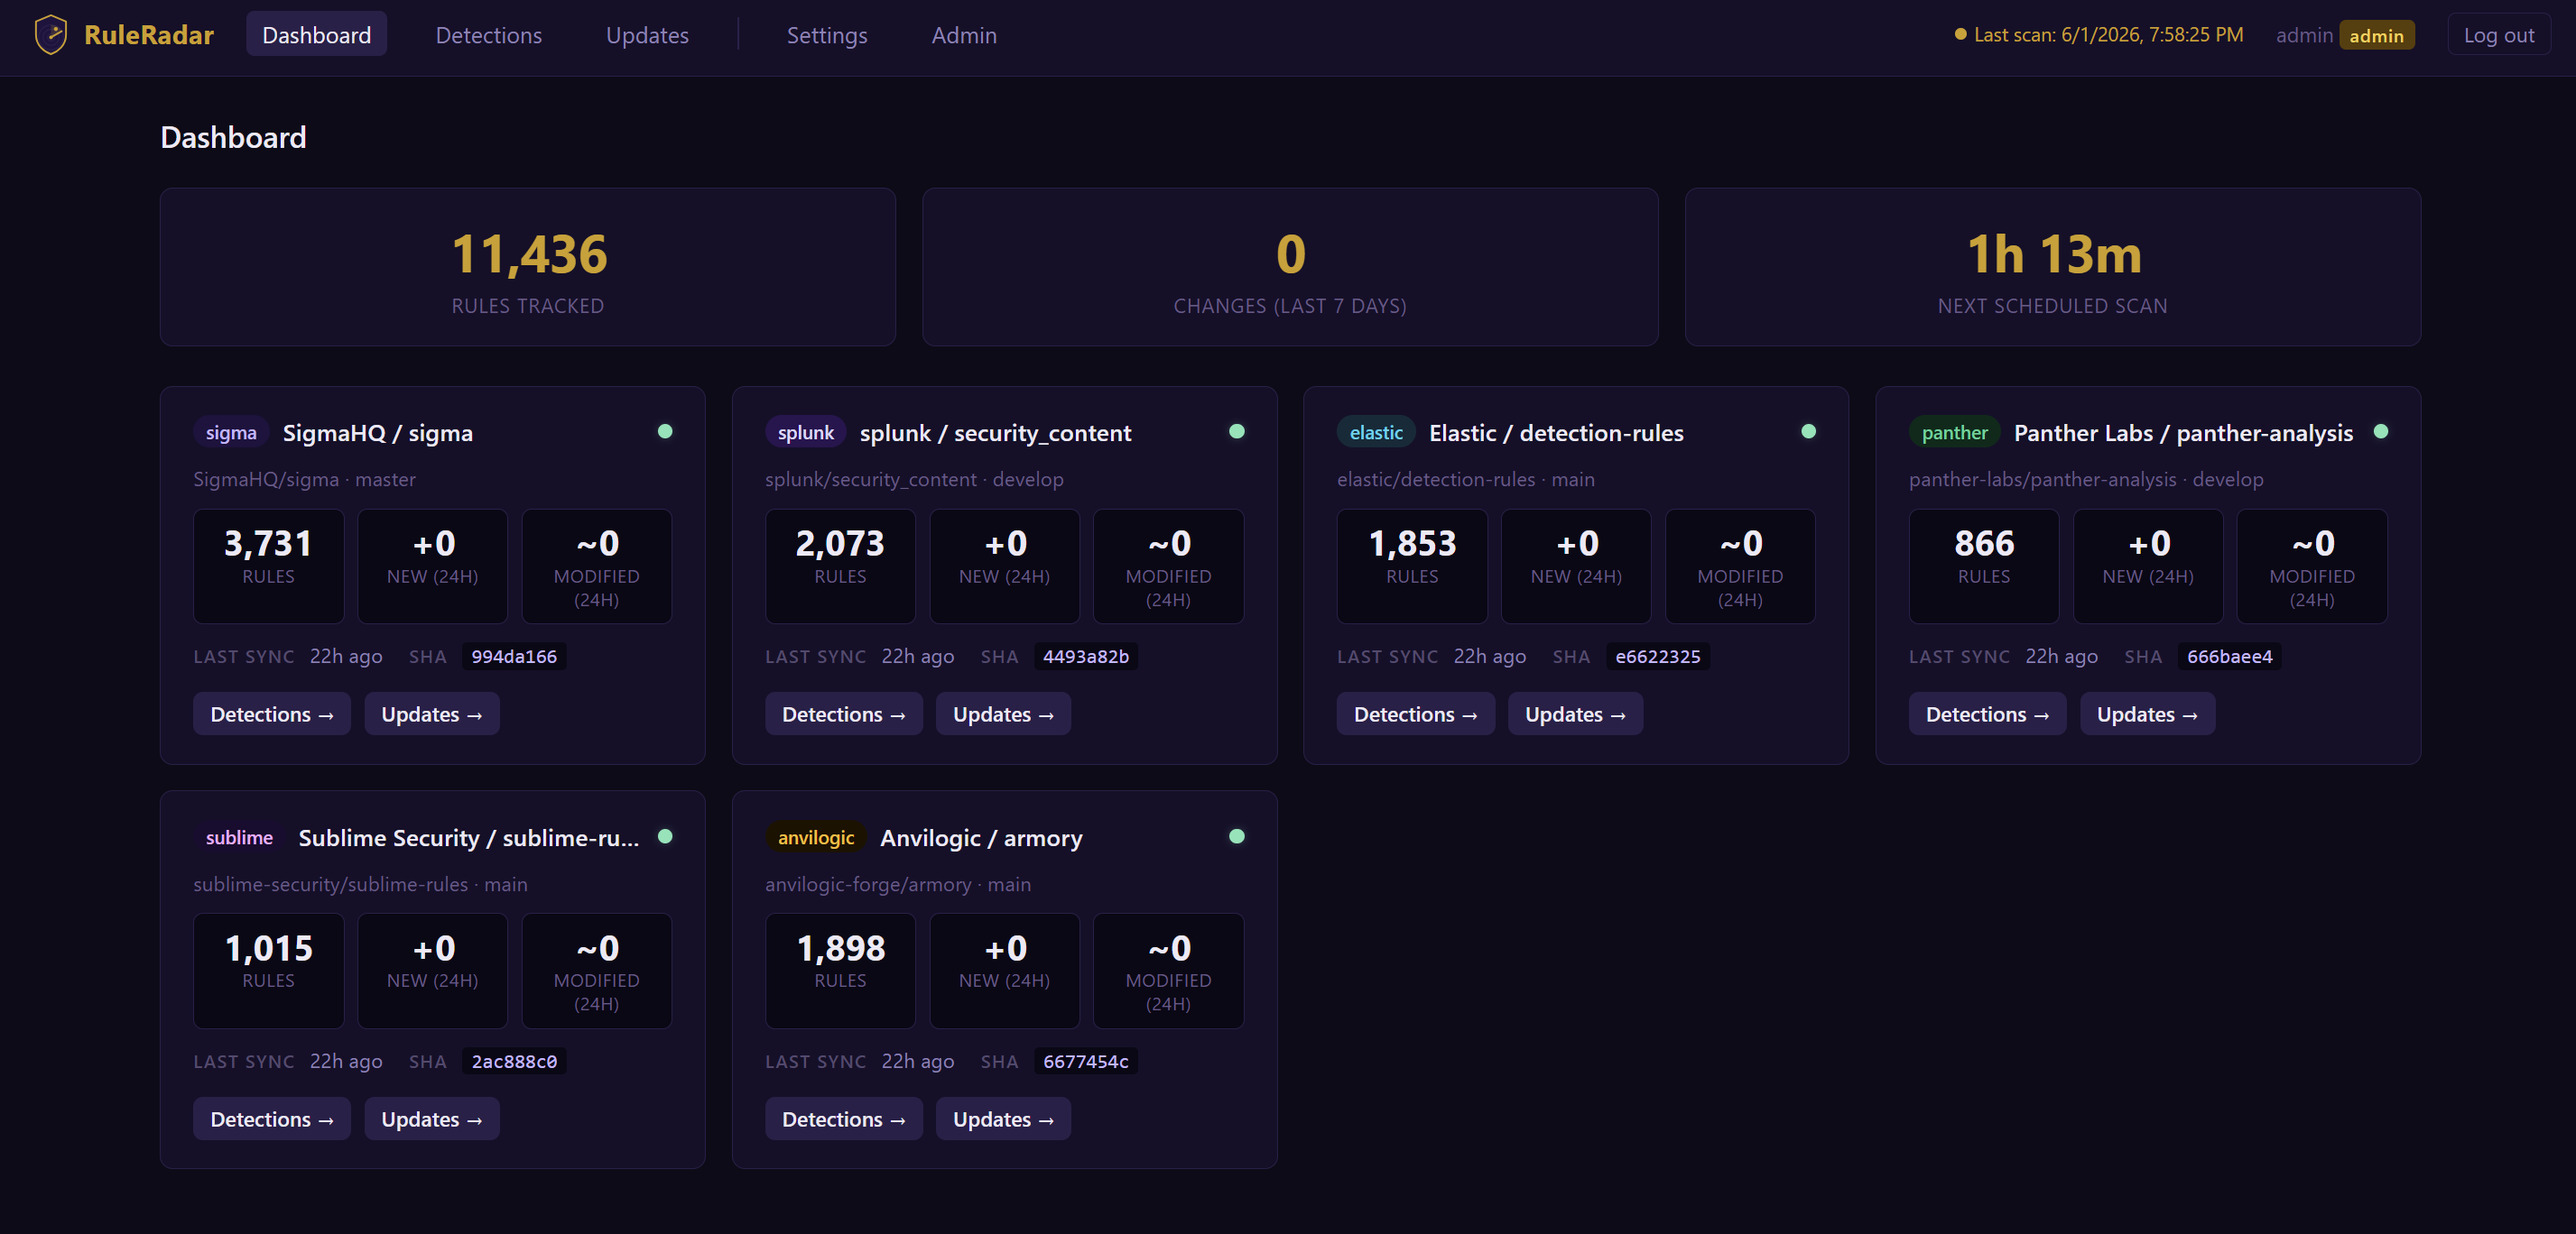
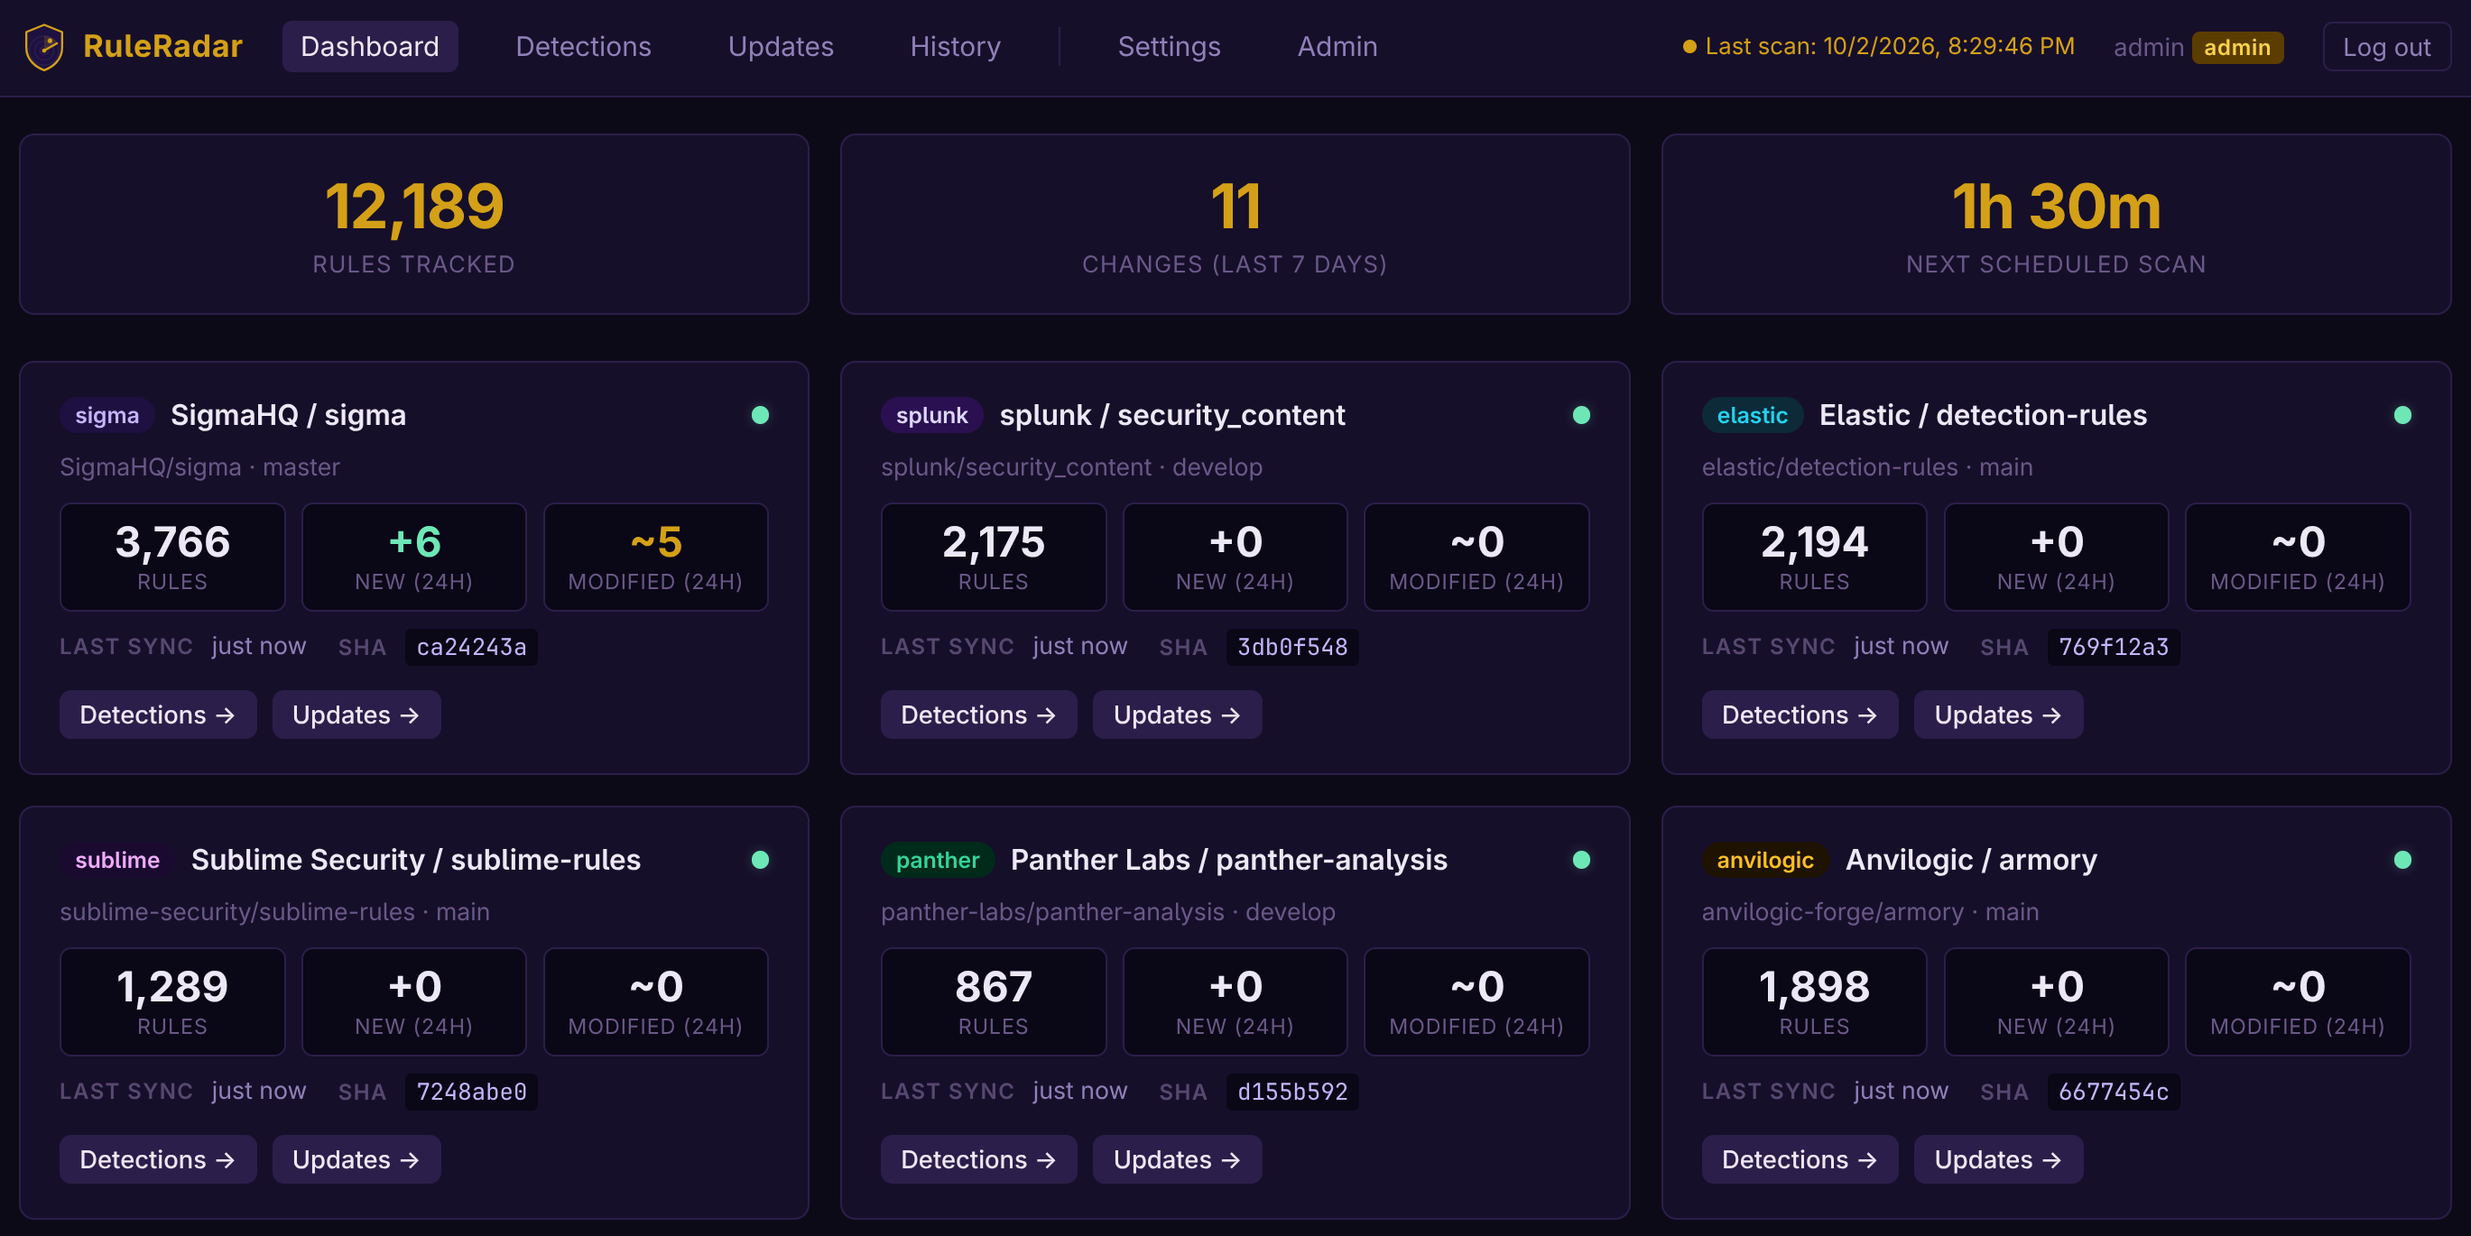
docs: update README for diff tracking, History page, and custom repo URL add
- Mention full diff tracking, per-rule modification history, and pasting a
  GitHub URL for custom repos in the top description and "What it does"
- Add History to the web interface feature list; update Detections/Updates
  bullets to describe the redesigned expand panels
- Refresh the Dashboard screenshot with all six built-in repos synced

diff --git a/README.md b/README.md
@@ -5,7 +5,7 @@
   <img src="webapp/static/title.svg" alt="RuleRadar">
 </p>
 
-Monitors detection rule repositories for new, modified, deleted, and renamed rules. Supports [SigmaHQ/sigma](https://github.com/SigmaHQ/sigma), [splunk/security_content](https://github.com/splunk/security_content), [elastic/detection-rules](https://github.com/elastic/detection-rules), [panther-labs/panther-analysis](https://github.com/panther-labs/panther-analysis), [sublime-security/sublime-rules](https://github.com/sublime-security/sublime-rules), and [anvilogic-forge/armory](https://github.com/anvilogic-forge/armory) out of the box — with support for adding custom repositories. All data is stored in a local SQLite database and browsable through a built-in web interface. No config files required — everything is configured through the web UI.
+Monitors detection rule repositories for new, modified, deleted, and renamed rules — with full diff tracking and per-rule modification history. Supports [SigmaHQ/sigma](https://github.com/SigmaHQ/sigma), [splunk/security_content](https://github.com/splunk/security_content), [elastic/detection-rules](https://github.com/elastic/detection-rules), [panther-labs/panther-analysis](https://github.com/panther-labs/panther-analysis), [sublime-security/sublime-rules](https://github.com/sublime-security/sublime-rules), and [anvilogic-forge/armory](https://github.com/anvilogic-forge/armory) out of the box — with support for adding custom repositories by pasting a GitHub URL. All data is stored in a local SQLite database and browsable through a built-in web interface. No config files required — everything is configured through the web UI.
 
 <p align="center">
   <img src="docs/Dashboard.png" alt="RuleRadar — Dashboard" width="900">
@@ -16,13 +16,15 @@ Monitors detection rule repositories for new, modified, deleted, and renamed rul
 Every two hours RuleRadar:
 1. Fetches changes from all configured repos via `git fetch` and diffs against the last known commit
 2. Parses new and modified rule files (`.yml`/`.yaml` for most repos; `.toml` for Elastic)
-3. Extracts titles, descriptions, MITRE ATT&CK mappings, and detection logic per source format
-4. Persists every detection and change event to SQLite
-5. Sends a summary to every user who has a personal Discord webhook configured
+3. Extracts titles, descriptions, and MITRE ATT&CK technique IDs — the same regex-based extraction for every source, native or custom
+4. Computes a full diff against each file's previously stored version
+5. Persists every detection, diff, and change event to SQLite
+6. Sends a summary to every user who has a personal Discord webhook configured
 
 The web interface provides:
-- **Detections** — filter by title, description, source, MITRE TTP, and time window; keyword search across detection logic, author, and references; saved filter presets
-- **Updates** — chronological feed of new, modified, deleted, and renamed rules, filterable by source, change type, and time window
+- **Detections** — filter by title, source, MITRE TTP, and time window; every rule's full file is stored and searchable; expand a row for its description, MITRE TTPs, references, and complete file contents
+- **Updates** — chronological feed of new, modified, deleted, and renamed rules; modified/renamed/deleted entries expand to a full colorized diff against the previous version, with a line-change count
+- **History** — search for any rule to see its current file alongside its last 5 modifications, each with a date and diff
 - **Settings** — per-user Discord webhook, saved filter presets, password change
 - **Admin** — add/remove users, reset passwords, grant/revoke admin access, manage monitored repositories
 
@@ -220,7 +222,7 @@ docker rmi tsloats/ruleradar:latest
 
 | Setting | Where | Description |
 |---------|-------|-------------|
-| Monitored repos | Admin → Monitored Repositories | Enable any of the six built-in repos (Sigma, Splunk, Elastic, Panther, Sublime, Anvilogic) or add your own custom repository. Repos are cloned locally via git — no API token required. |
+| Monitored repos | Admin → Monitored Repositories | Enable any of the six built-in repos (Sigma, Splunk, Elastic, Panther, Sublime, Anvilogic) or add a custom one by pasting its GitHub URL — owner, repo, branch, and path are parsed automatically. Repos are cloned locally via git — no API token required. |
 | Discord webhook | Settings → Discord Notifications | Per-user webhook for scan summaries. Create one in Discord: Server Settings → Integrations → Webhooks. |
 | Saved filters | Settings → Saved Filters | Named presets (source, change type, title, MITRE TTP, time window) that appear as quick-access buttons on the Detections and Updates pages. |
 | Users | Admin → Users | Add users, reset passwords, grant/revoke admin, delete users. |
